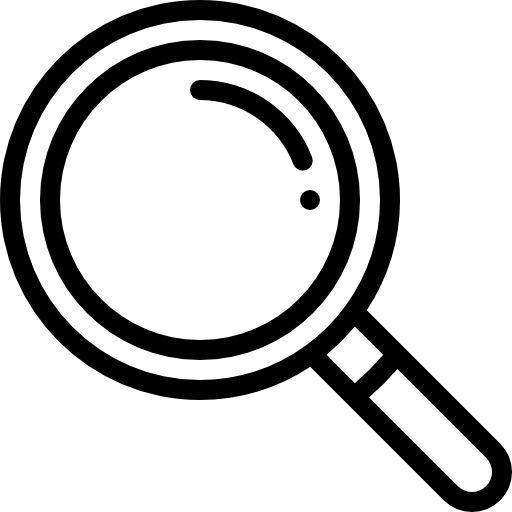
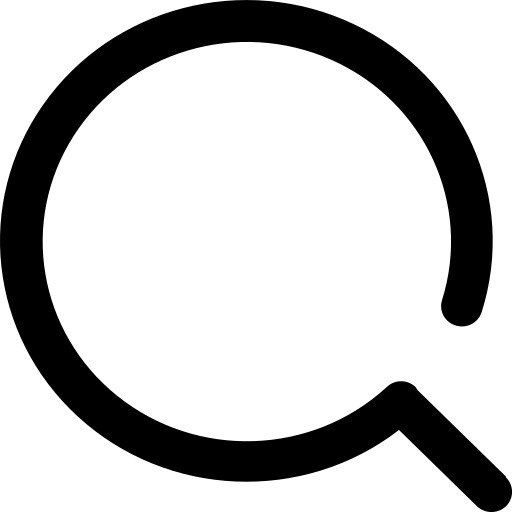
header completed here with responsive

diff --git a/src/components/Header/TheHeader.vue b/src/components/Header/TheHeader.vue
@@ -1,7 +1,16 @@
 <template>
+  <div class="search-box" v-if="showSearchBox">
+    <input type="text" class="search-open" placeholder="Search..." />
+    <img
+      src="../../assets/header/cross.png"
+      alt=""
+      width="24px"
+      @click="showSearchBox = false"
+    />
+  </div>
   <div class="nav" :style="{ opacity: isMobileMenuOpen ? 0.5 : 1 }">
     <div class="logo-img">
-      <img src="../../assets/logo.png" alt="" class="nav-img" />
+      <img src="../../assets/header/logo.png" alt="" class="nav-img" />
       <p class="title">Scissors & Style</p>
     </div>
     <ul class="outer-ul">
@@ -9,7 +18,7 @@
         <a href="#">
           {{ val.toUpperCase() }}
           <img
-            src="../../assets/dropdown.png"
+            src="../../assets/header/dropdown.png"
             alt="icon"
             class="menu-icon active"
           />
@@ -17,12 +26,13 @@
       </li>
     </ul>
     <div class="second-last">
-      <p class="last-row" style="opacity: 0.8">
+      <p class="last-row" style="opacity: 0.8" @click="showSearchBox = true">
         <img
           src="../../assets/header/search.png"
           alt=""
           width="24px"
           style="margin-right: -19px"
+          @click="showSearchBox = true"
         />
         Search
       </p>
@@ -30,7 +40,7 @@
       <div class="o-div">
         <div class="appoint-btn">
           <img
-            src="../../assets/calender.png"
+            src="../../assets/header/calender.png"
             alt="icon"
             class="menu-icon"
             style="margin-left: 0; opacity: 0.7"
@@ -41,13 +51,14 @@
     </div>
     <a class="last-img hamburger">
       <img
-        src="../../assets/menu-icon.png"
+        src="../../assets/header/menu-icon.png"
         alt="menu"
         class="menu-icon"
         @click="mobileView()"
       />
     </a>
   </div>
+
   <transition name="mobile-menu">
     <div
       v-if="isMobileMenuOpen"
@@ -59,7 +70,7 @@
           <div class="mobile-title">
             <p>MAIN MENU</p>
             <img
-              src="../../assets/cross.png"
+              src="../../assets/header/cross.png"
               alt="menu"
               class="menu-icon"
               @click="closeMobileView"
@@ -72,7 +83,7 @@
           >
             <p>{{ val }}</p>
             <img
-              src="../../assets/right-arrow.png"
+              src="../../assets/header/right-arrow.png"
               alt="menu"
               class="menu-icon"
             />
@@ -81,6 +92,22 @@
       </div>
     </div>
   </transition>
+  <div class="bottom-fixed">
+    <div class="bottom-bar">
+      <div class="last-thing" @click="showSearchBox = true">
+        <img src="../../assets/header/search.png" alt="" width="24px" />
+        <p>Search</p>
+      </div>
+      <div class="last-thing">
+        <img src="../../assets/header/user.png" alt="" width="24px" />
+        <p>Account</p>
+      </div>
+      <div class="last-thing">
+        <img src="../../assets/header/cart.png" alt="" width="24px" />
+        <p>Cart</p>
+      </div>
+    </div>
+  </div>
 </template>
 
 <script>
@@ -96,6 +123,7 @@ export default {
         "Contacts",
       ],
       isMobileMenuOpen: false,
+      showSearchBox: false,
     };
   },
   methods: {
@@ -320,6 +348,53 @@ button {
 .hamburger {
   display: none;
 }
+.bottom-bar {
+  position: fixed;
+  bottom: 0;
+  left: 0;
+  width: 100%;
+  background: #fff;
+  color: #000;
+  text-align: center;
+  padding: 10px;
+  z-index: 1;
+  display: flex;
+  justify-content: space-evenly;
+}
+.bottom-fixed {
+  display: none;
+}
+.search-open {
+  top: 0;
+  width: 95%;
+  font-family: "Montserrat", sans-serif;
+  font-size: 24px;
+  padding-left: 20px;
+  border: none;
+  padding: 10px;
+}
+
+.search-box {
+  display: flex;
+  justify-content: space-between;
+  padding: 0 20px;
+  margin-top: -42px;
+  width: 100%;
+  background-color: #fff;
+}
+.search-box img {
+  width: 22px;
+  height: 22px;
+  margin-top: 9px;
+  cursor: pointer;
+}
+.bottom-bar {
+  padding: 20px 0;
+}
+.last-thing p {
+  font-family: "Montserrat", sans-serif;
+  padding: 5px 0;
+}
 @media (max-width: 1280px) {
   .hamburger {
     display: flex;
@@ -363,6 +438,13 @@ button {
   .second-last {
     display: none;
   }
+
+  .bottom-fixed {
+    display: flex;
+  }
+  .search-open {
+    font-size: 16px;
+  }
 }
 @media (max-width: 640px) {
   .nav {
@@ -387,6 +469,15 @@ button {
   }
   .second-last {
     display: none;
+  }
+  .bottom-fixed {
+    display: flex;
+  }
+  .last-thing p {
+    display: none;
+  }
+  .search-open {
+    font-size: 16px;
   }
 }
 .mobile-overlay {

diff --git a/src/App.vue b/src/App.vue
@@ -18,6 +18,72 @@
       corrupti laboriosam accusantium sed a veniam vitae iusto debitis saepe.
     </p>
     <p>
+      Lorem ipsum dolor sit amet consectetur adipisicing elit. Aut aliquid
+      labore voluptas, voluptates officia modi. Dolorum consectetur deserunt
+      odio in repellat delectus necessitatibus quae, aperiam saepe. Ex sunt
+      corporis consectetur!
+    </p>
+    <p>
+      Lorem ipsum dolor, sit amet consectetur adipisicing elit. Rem neque maxime
+      aliquid illum recusandae nihil molestiae natus fugit nemo. Quisquam,
+      corrupti laboriosam accusantium sed a veniam vitae iusto debitis saepe.
+    </p>
+    <p>
+      Lorem ipsum dolor sit amet consectetur adipisicing elit. Asperiores eos
+      ratione tenetur, laboriosam quidem a itaque reprehenderit fugiat nam
+      assumenda adipisci. At quaerat laudantium ratione obcaecati qui, mollitia
+      consequuntur corporis.
+    </p>
+    <p>
+      Lorem ipsum dolor sit amet consectetur, adipisicing elit. Ea officiis
+      dicta cumque dolorem quos, assumenda ab nobis voluptatibus hic provident
+      quod veritatis. Eveniet, velit ab atque voluptatem quidem iste modi!
+    </p>
+    <p>
+      Lorem ipsum dolor sit amet consectetur adipisicing elit. Aut aliquid
+      labore voluptas, voluptates officia modi. Dolorum consectetur deserunt
+      odio in repellat delectus necessitatibus quae, aperiam saepe. Ex sunt
+      corporis consectetur!
+    </p>
+    <p>
+      Lorem ipsum dolor, sit amet consectetur adipisicing elit. Rem neque maxime
+      aliquid illum recusandae nihil molestiae natus fugit nemo. Quisquam,
+      corrupti laboriosam accusantium sed a veniam vitae iusto debitis saepe.
+    </p>
+    <p>
+      Lorem ipsum dolor sit amet consectetur adipisicing elit. Asperiores eos
+      ratione tenetur, laboriosam quidem a itaque reprehenderit fugiat nam
+      assumenda adipisci. At quaerat laudantium ratione obcaecati qui, mollitia
+      consequuntur corporis.
+    </p>
+    <p>
+      Lorem ipsum dolor sit amet consectetur, adipisicing elit. Ea officiis
+      dicta cumque dolorem quos, assumenda ab nobis voluptatibus hic provident
+      quod veritatis. Eveniet, velit ab atque voluptatem quidem iste modi!
+    </p>
+    <p>
+      Lorem ipsum dolor sit amet consectetur adipisicing elit. Aut aliquid
+      labore voluptas, voluptates officia modi. Dolorum consectetur deserunt
+      odio in repellat delectus necessitatibus quae, aperiam saepe. Ex sunt
+      corporis consectetur!
+    </p>
+    <p>
+      Lorem ipsum dolor, sit amet consectetur adipisicing elit. Rem neque maxime
+      aliquid illum recusandae nihil molestiae natus fugit nemo. Quisquam,
+      corrupti laboriosam accusantium sed a veniam vitae iusto debitis saepe.
+    </p>
+    <p>
+      Lorem ipsum dolor sit amet consectetur adipisicing elit. Asperiores eos
+      ratione tenetur, laboriosam quidem a itaque reprehenderit fugiat nam
+      assumenda adipisci. At quaerat laudantium ratione obcaecati qui, mollitia
+      consequuntur corporis.
+    </p>
+    <p>
+      Lorem ipsum dolor sit amet consectetur, adipisicing elit. Ea officiis
+      dicta cumque dolorem quos, assumenda ab nobis voluptatibus hic provident
+      quod veritatis. Eveniet, velit ab atque voluptatem quidem iste modi!
+    </p>
+    <p>
       Lorem ipsum dolor sit amet consectetur adipisicing elit. Asperiores eos
       ratione tenetur, laboriosam quidem a itaque reprehenderit fugiat nam
       assumenda adipisci. At quaerat laudantium ratione obcaecati qui, mollitia
@@ -75,5 +141,8 @@ export default {
   font-family: "Montserrat", sans-serif;
   font-weight: 500;
   font-size: 13px;
+}
+.main-section {
+  background-color: aqua;
 }
 </style>

diff --git a/index.html b/index.html
@@ -4,7 +4,7 @@
 <head>
   <meta charset="UTF-8" />
   <title>Scissors & Style </title>
-  <link rel="icon" href="/src/assets/logo.png" />
+  <link rel="icon" href="/src/assets/header/logo.png" />
   <meta name="viewport" content="width=device-width, initial-scale=1.0" />
 
   <link rel="preconnect" href="https://fonts.googleapis.com">
